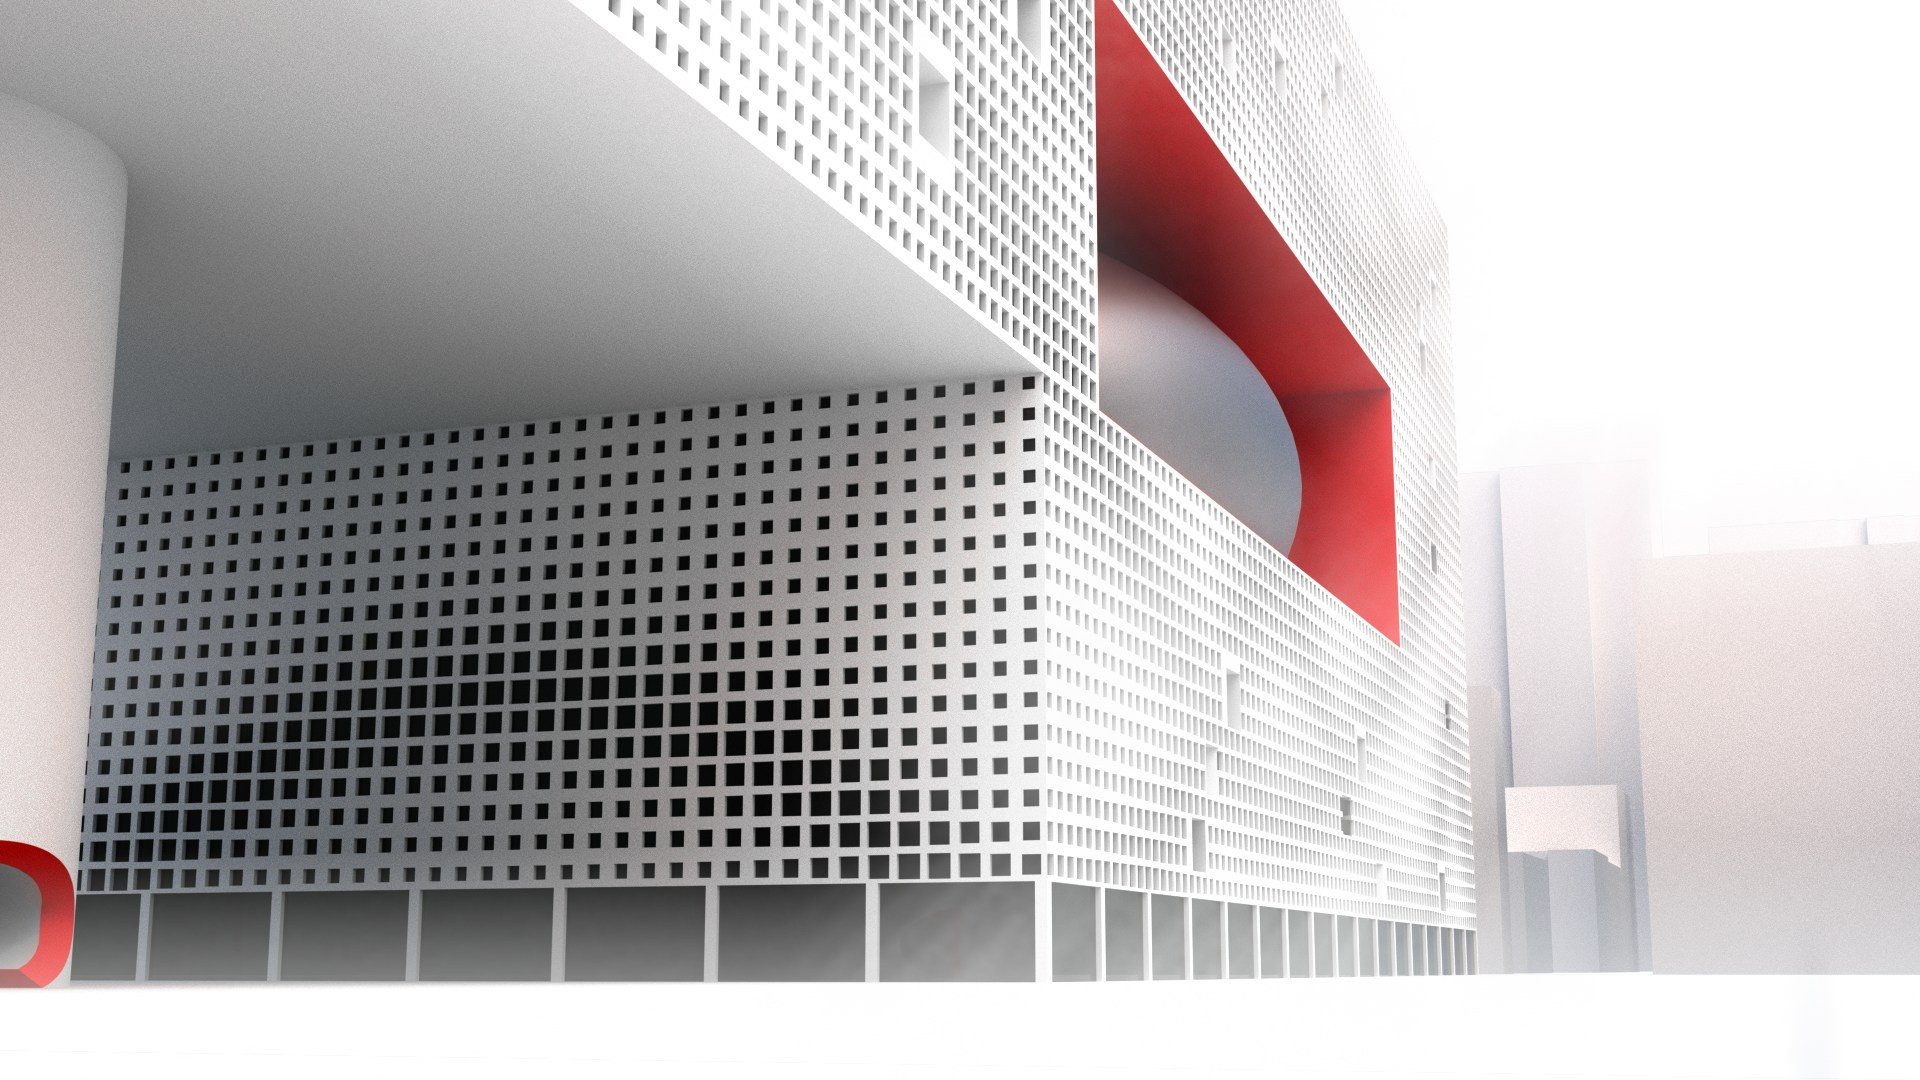
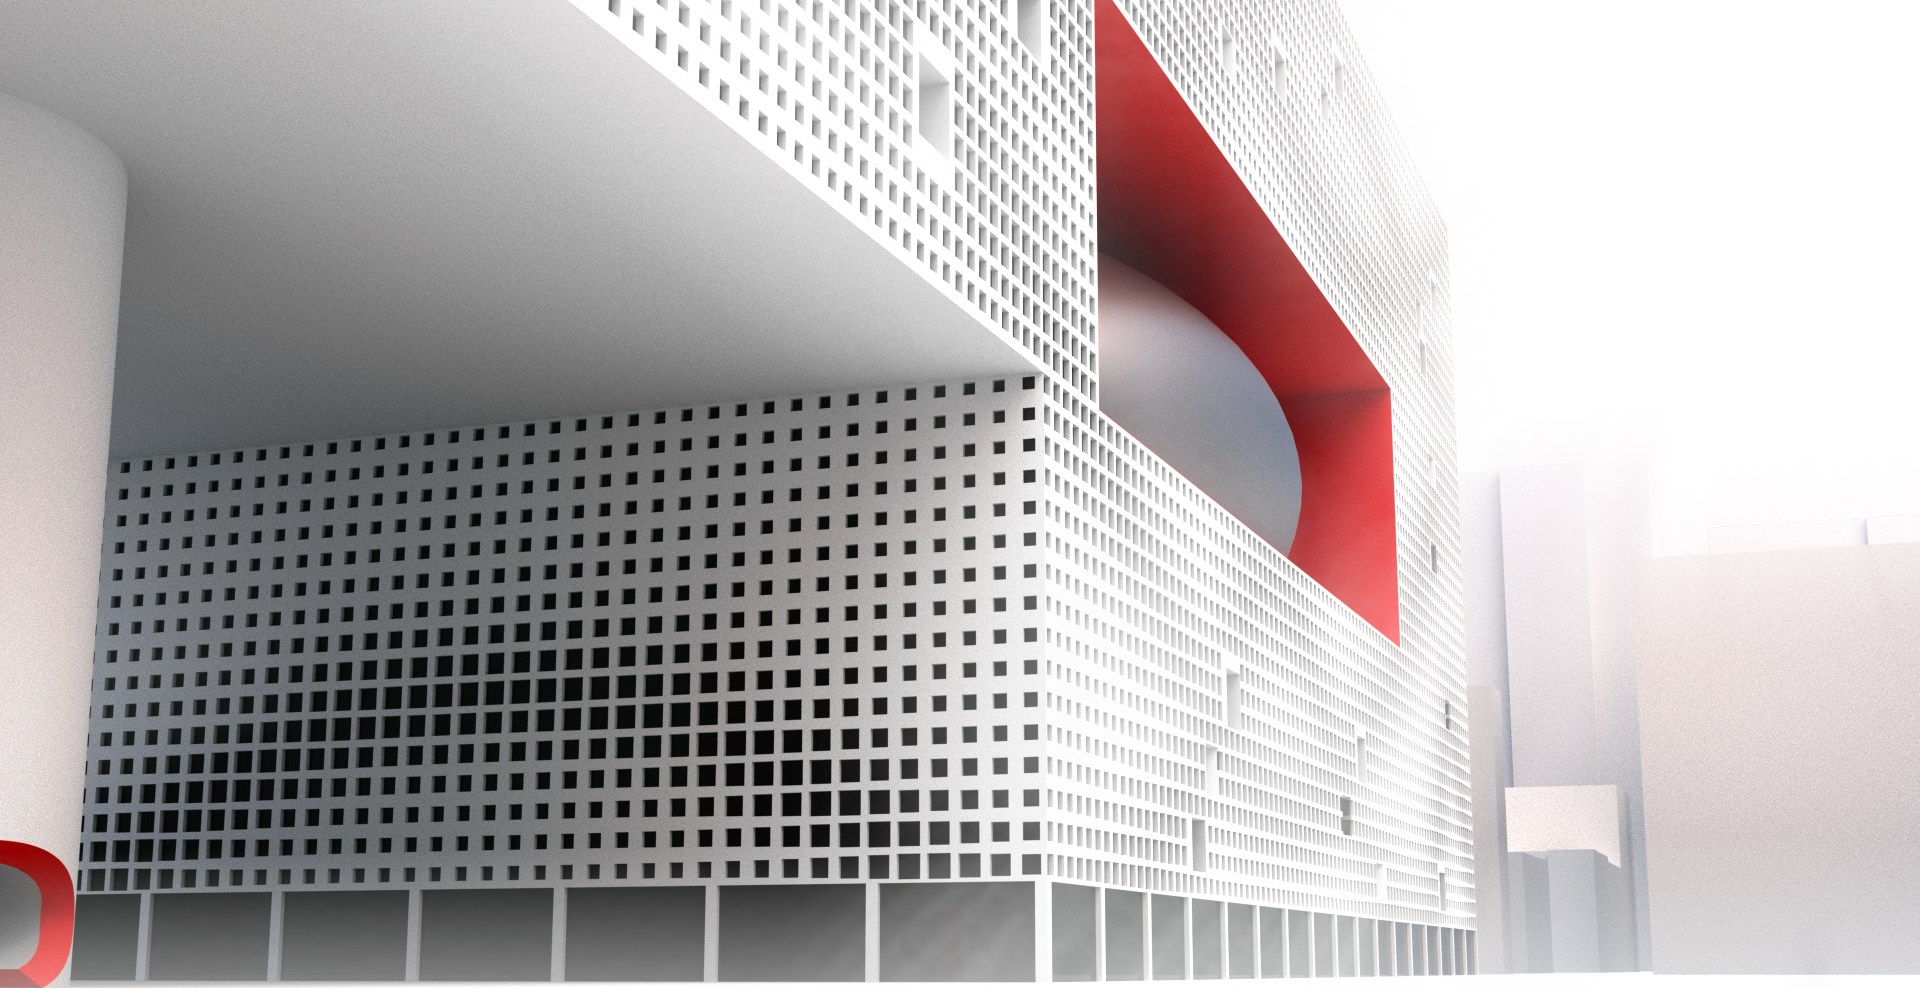
Compression: road-only strip tint (stripMask), plans stacked, larger elevations, caption fixes

diff --git a/js/projects.js b/js/projects.js
@@ -8,7 +8,8 @@
   shortTitle  optional; shorter name for the home page strip
   stripTint   false keeps a colour strip as it is (black-and-white strips get a random
               Bauhaus tint on the home page); stripMono: true shows a colour strip in
-              black and white so it gets tinted too
+              black and white so it gets tinted too; stripMask: a PNG whose opaque parts
+              take the tint as a flat colour (e.g. only the roads of a site plan)
   summary     one paragraph as a string, or several as a list of strings
   collaborators  optional; only shown when filled in
   images      shown in order on the project page; caption is optional. An entry can
@@ -56,7 +57,7 @@
 */
 
 // Bump whenever an image file is replaced under the same name, so browsers fetch the new one
-const IMAGE_VERSION = 17;
+const IMAGE_VERSION = 18;
 
 const CATEGORIES = [
   { id: "academic", label: "Academic", prefix: "A" },
@@ -405,8 +406,9 @@ const PROJECTS = [
     year: "2023",
     location: "New York, NY",
     type: "Mixed Use",
-    strip: "assets/img/projects/compression/strip.jpg", // middle of the site plan with buildings, pre-cut: greyscale, tones squeezed, grain (so the tint covers it)
+    strip: "assets/img/projects/compression/strip.jpg", // middle of the site plan with buildings, black and white, roads light grey
     stripFocus: "50% 50%",
+    stripMask: "assets/img/projects/compression/strip-roads.png", // the tint goes on the roads only
     summary: [
       "In the year 2121, Lincoln Center's infrastructure has become obsolete and the complex is demolished. A plan is set forth to rebuild it, but New York City has passed legislation requiring new housing alongside it, as reparations for the destruction of the San Juan Hill neighborhood in the 1960s.",
       "The first goal was to integrate San Juan Hill with Lincoln Center rather than treat them as separate entities. I merged the two into one building, placing the new theater on the sixth floor of the housing complex, so that patrons of Lincoln Center leave alongside its residents. The design pushes both groups to encounter people outside the demographics they are used to, and this pressure is where the idea of compression comes from: the structure physically compresses the new theater while compressing two populations into one building. It also aims to bring the community of San Juan Hill and the facilities of Lincoln Center together, rejuvenating the neighborhood's identity in music and the arts.",
@@ -423,17 +425,12 @@ const PROJECTS = [
         ],
       },
       { src: "assets/img/projects/compression/axon.jpg", caption: "Axonometric Render" },
-      {
-        layout: "carousel", // web: one plan at a time; mobile: stacked
-        list: true,
-        images: [
-          { src: "assets/img/projects/compression/plan-1.jpg", ratio: 2.397, caption: "Floor Plan 1", tab: "Plan 1" },
-          { src: "assets/img/projects/compression/plan-2.jpg", ratio: 2.397, caption: "Floor Plan 2", tab: "Plan 2" },
-        ],
-      },
+      { src: "assets/img/projects/compression/plan-1.jpg", caption: "Floor Plan 1" },
+      { src: "assets/img/projects/compression/plan-2.jpg", caption: "Floor Plan 2" },
       {
         layout: "carousel", // web and mobile
         list: true,
+        width: "95%", // larger than the default on web
         mobileSwipe: true,
         images: [
           { src: "assets/img/projects/compression/elevation.jpg", ratio: 3.019, caption: "Elevation", tab: "Elevation" },
@@ -441,14 +438,14 @@ const PROJECTS = [
         ],
       },
       { src: "assets/img/projects/compression/symphony-hall.jpg", caption: "Symphony Hall Render" },
-      { src: "assets/img/projects/compression/ground-plaza.jpg", caption: "Ground Plaza Perspective" },
+      { src: "assets/img/projects/compression/ground-plaza.jpg", caption: "Ground Plaza Perspective" }, // white band under the render cropped off
       { src: "assets/img/projects/compression/solid-void.jpg", caption: "Solid vs. Void" },
       {
         layout: "row", // side by side on phones too
         mobileRow: true,
         images: [
           { src: "assets/img/projects/compression/compression-diagram.jpg", ratio: 1.5437, caption: "Compression Diagram" },
-          { src: "assets/img/projects/compression/tenement-typologies.jpg", ratio: 1.9644, caption: "Tenement Typologies" },
+          { src: "assets/img/projects/compression/tenement-typologies.jpg", ratio: 1.9644, caption: "Tenement Typologies", captionInset: "2.72%" },
         ],
       },
     ],

diff --git a/js/main.js b/js/main.js
@@ -53,6 +53,14 @@
     return deck.pop();
   }
   const tinted = (p) => p.stripTint !== false && !/.svg$/.test(p.strip);
+  // stripMask: the colour goes only where the mask is opaque, as a flat colour, cropped
+  // the same way as the strip image
+  function tintHTML(p) {
+    if (!p.stripMask) return `<span class="strip-tint" style="--tint:${nextTint()}"></span>`;
+    const mask = `url('${asset(p.stripMask)}')`;
+    const focus = p.stripFocus || "50% 50%";
+    return `<span class="strip-tint strip-tint--mask" style="--tint:${nextTint()};-webkit-mask-image:${mask};mask-image:${mask};-webkit-mask-position:${focus};mask-position:${focus}"></span>`;
+  }
 
   function renderIndex() {
     const root = document.getElementById("categories");
@@ -67,7 +75,7 @@
           <a class="strip" href="project.html?p=${p.slug}" aria-label="${escapeHTML(p.title)}">
             <span class="strip-frame">
               <img src="${asset(p.strip)}" alt="" loading="lazy" style="${stripStyle(p)}">
-              ${tinted(p) ? `<span class="strip-tint" style="--tint:${nextTint()}"></span>` : ""}
+              ${tinted(p) ? tintHTML(p) : ""}
               <span class="strip-title" aria-hidden="true">${escapeHTML(p.shortTitle || p.title)}</span>
             </span>
             <span class="strip-caption" aria-hidden="true">${escapeHTML(p.shortTitle || p.title)}</span>

diff --git a/project.html b/project.html
@@ -25,7 +25,7 @@
   <link rel="icon" href="assets/img/favicon.svg" type="image/svg+xml">
   <link rel="icon" href="assets/img/favicon-32.png" sizes="32x32" type="image/png">
   <link rel="apple-touch-icon" href="assets/img/apple-touch-icon.png">
-  <link rel="stylesheet" href="css/style.css?v=56">
+  <link rel="stylesheet" href="css/style.css?v=57">
 </head>
 <body data-page="project">
 
@@ -48,7 +48,7 @@
     <article class="project" id="project"></article>
   </main>
 
-  <script src="js/projects.js?v=56"></script>
-  <script src="js/main.js?v=56"></script>
+  <script src="js/projects.js?v=57"></script>
+  <script src="js/main.js?v=57"></script>
 </body>
 </html>

diff --git a/index.html b/index.html
@@ -30,7 +30,7 @@
   <link rel="preconnect" href="https://fonts.googleapis.com">
   <link rel="preconnect" href="https://fonts.gstatic.com" crossorigin>
   <link rel="stylesheet" href="https://fonts.googleapis.com/css2?family=Inter:wght@400;700&display=swap">
-  <link rel="stylesheet" href="css/style.css?v=56">
+  <link rel="stylesheet" href="css/style.css?v=57">
 </head>
 <body data-page="index">
 
@@ -157,7 +157,7 @@
     </div>
   </main>
 
-  <script src="js/projects.js?v=56"></script>
-  <script src="js/main.js?v=56"></script>
+  <script src="js/projects.js?v=57"></script>
+  <script src="js/main.js?v=57"></script>
 </body>
 </html>

diff --git a/css/style.css b/css/style.css
@@ -365,6 +365,15 @@ html.menu-entering .layout > :not(.menu) {
   transition: opacity 0.35s;
 }
 
+/* stripMask: a flat colour on part of the image only (e.g. a site plan's roads) */
+.strip-tint--mask {
+  mix-blend-mode: multiply;
+  -webkit-mask-size: cover;
+  mask-size: cover;
+  -webkit-mask-repeat: no-repeat;
+  mask-repeat: no-repeat;
+}
+
 @media (hover: hover) and (pointer: fine) {
   .strip:hover .strip-tint {
     opacity: 0;
